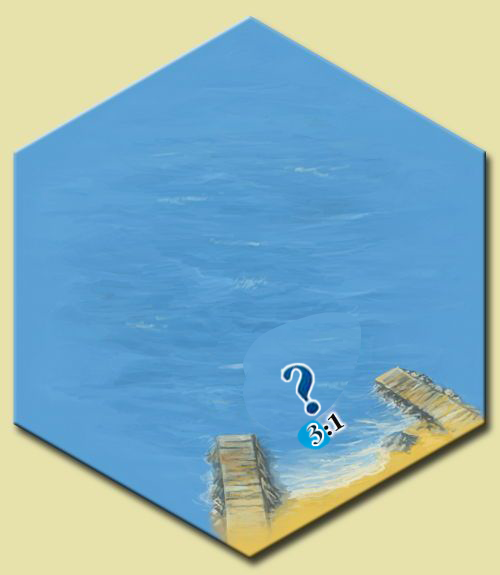
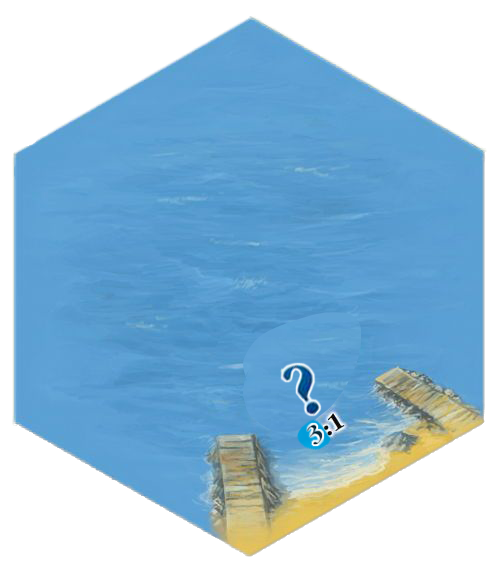
removed border from 3:1 port image

diff --git a/pages/scenario/catan5_6ext.js b/pages/scenario/catan5_6ext.js
@@ -48,7 +48,7 @@ const port_config = {
         [{ type: '', rotation: '', position: 1 }, { type: '3for1', rotation: '60deg', position: 2 }],
         [{ type: '', rotation: '', position: 1 }, { type: '', rotation: '', position: 2 }],
         [{ type: '2for1_ore', rotation: '-60deg', position: 1 }, { type: '', rotation: '', position: 2 }],
-        [{ type: '', rotation: '', position: 1 }, { type: '3for1_left', rotation: '0deg', position: 2 }],
+        [{ type: '', rotation: '', position: 1 }, { type: '3for1', rotation: '120deg', position: 2 }],
         [{ type: '3for1', rotation: '-120deg', position: 1 }, { type: '', rotation: '', position: 2 }],
         [{ type: '2for1_grain', rotation: '-60deg', position: 1 }, { type: '2for1_brick', rotation: '180deg', position: 2 }],
         [{ type: '', rotation: '', position: 1 }, { type: '2for1_wool', rotation: '120deg', position: 2 }]
